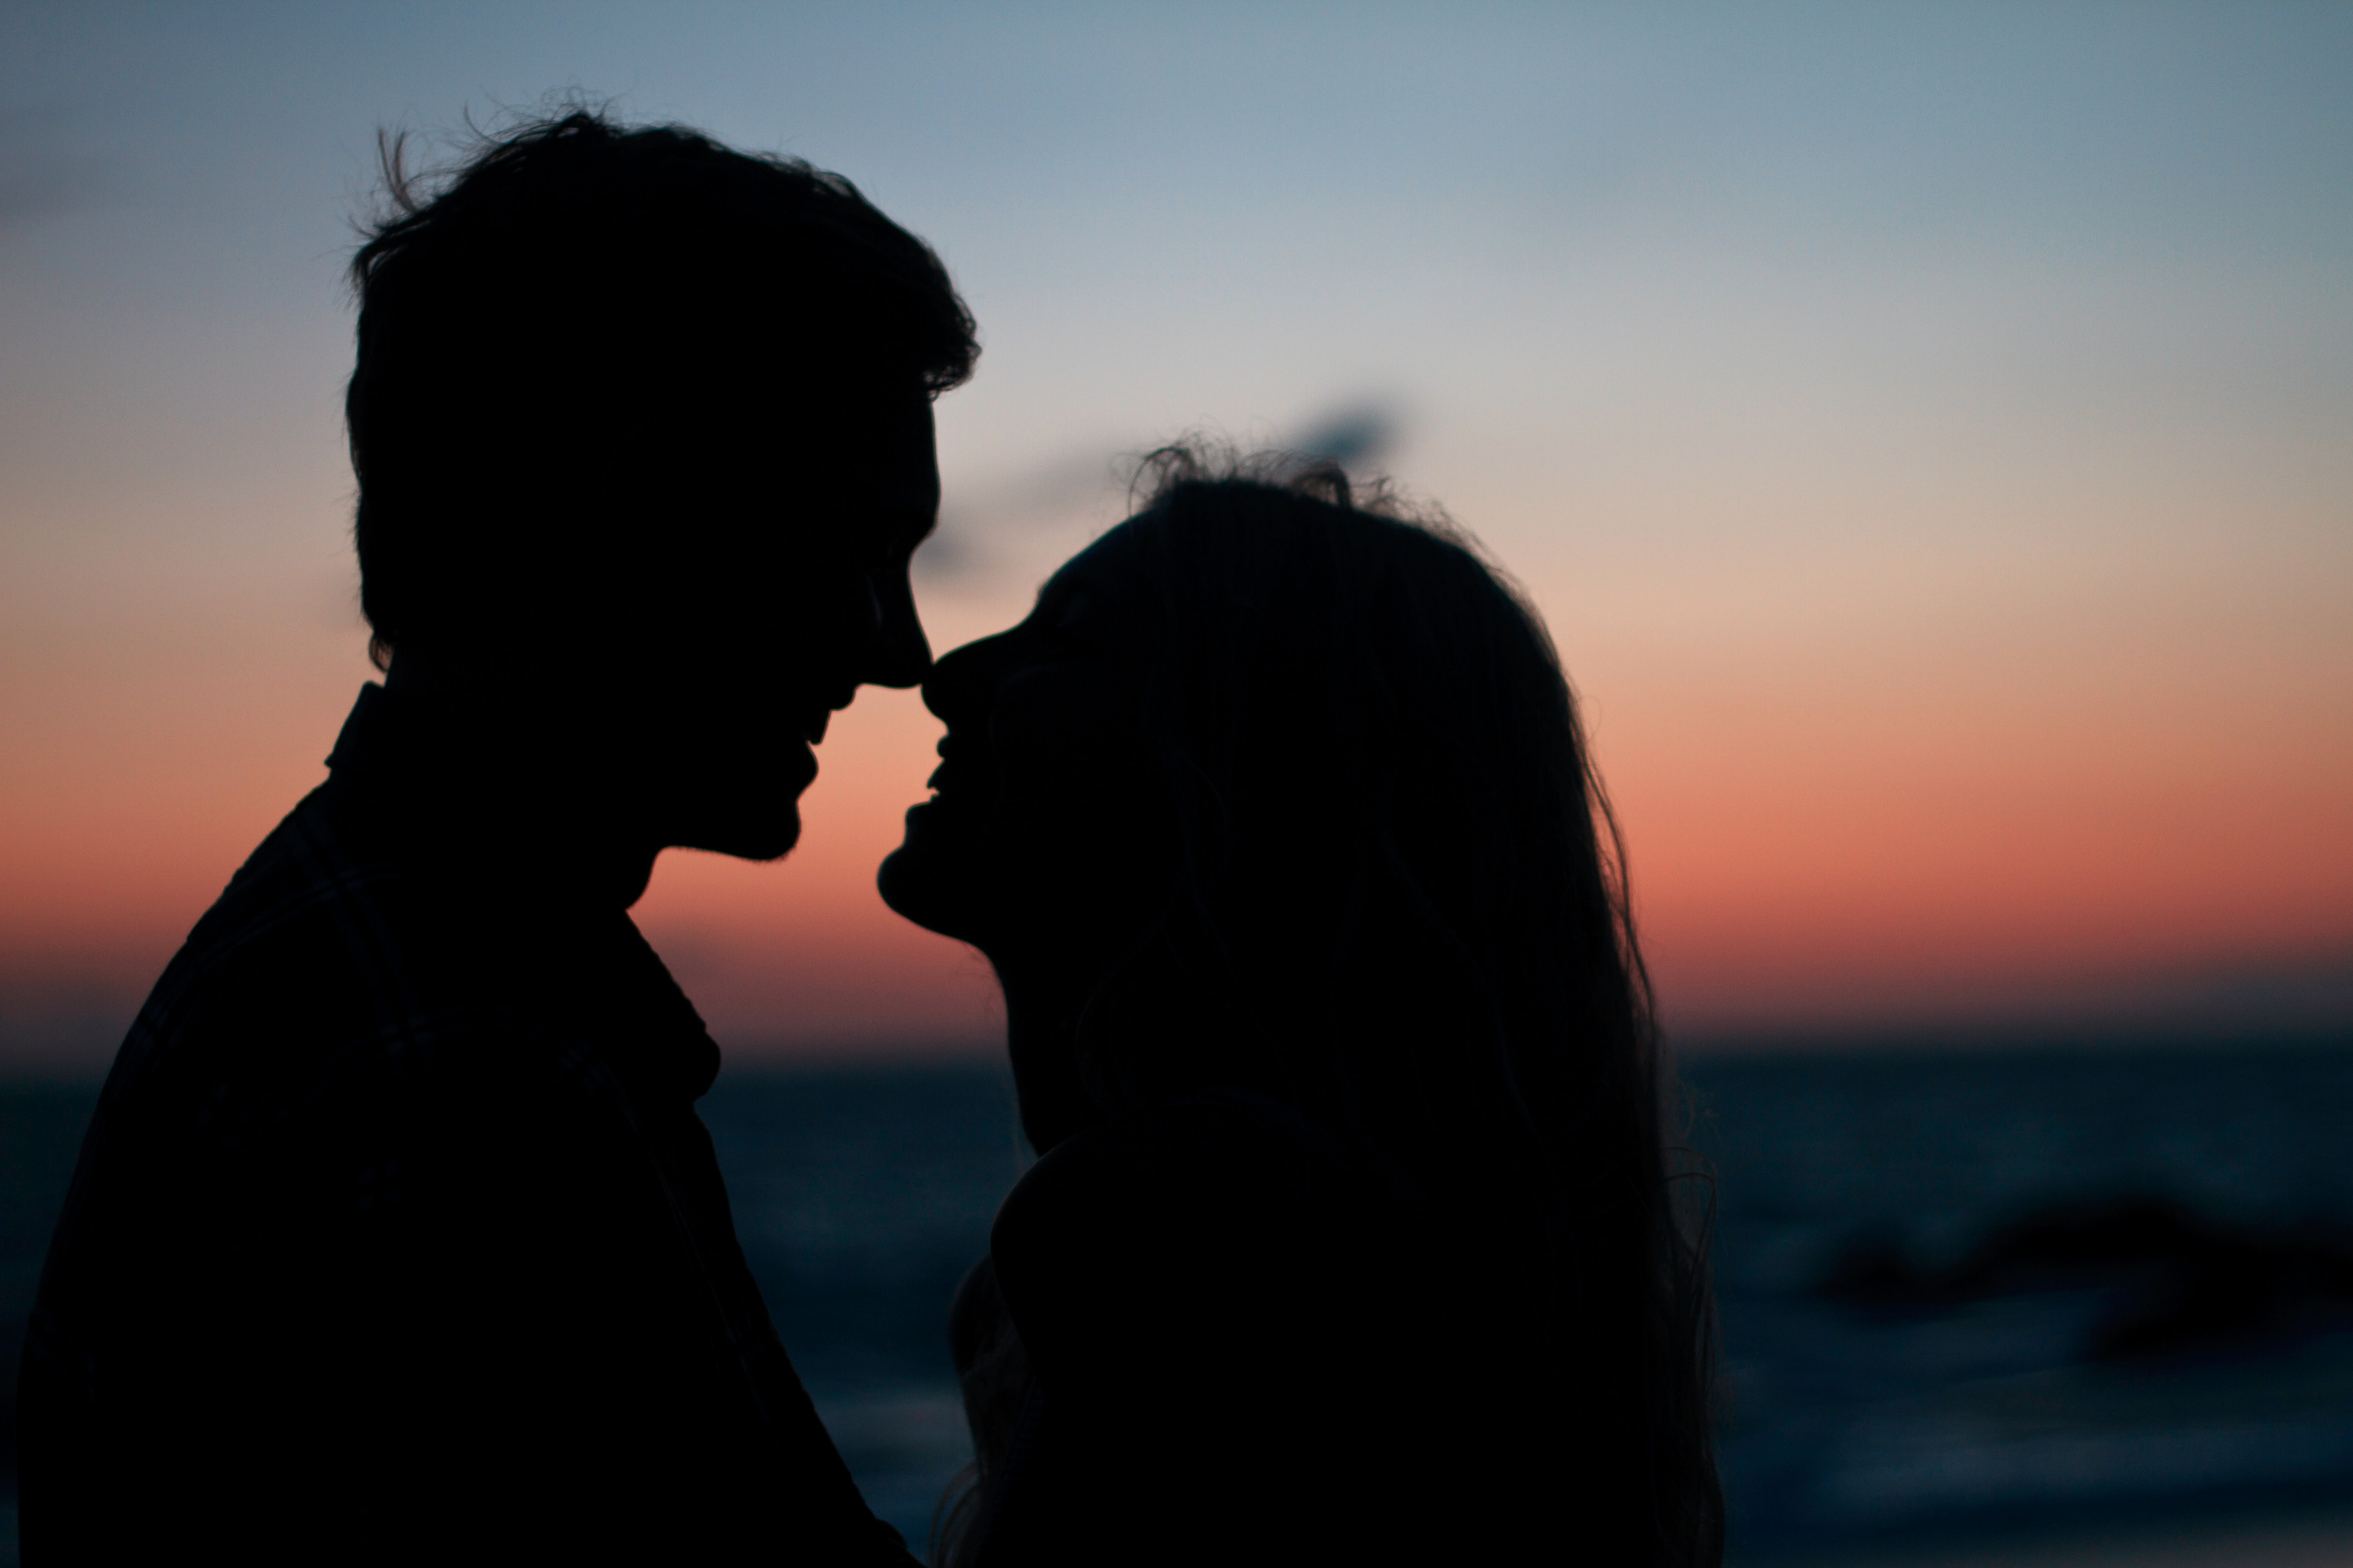
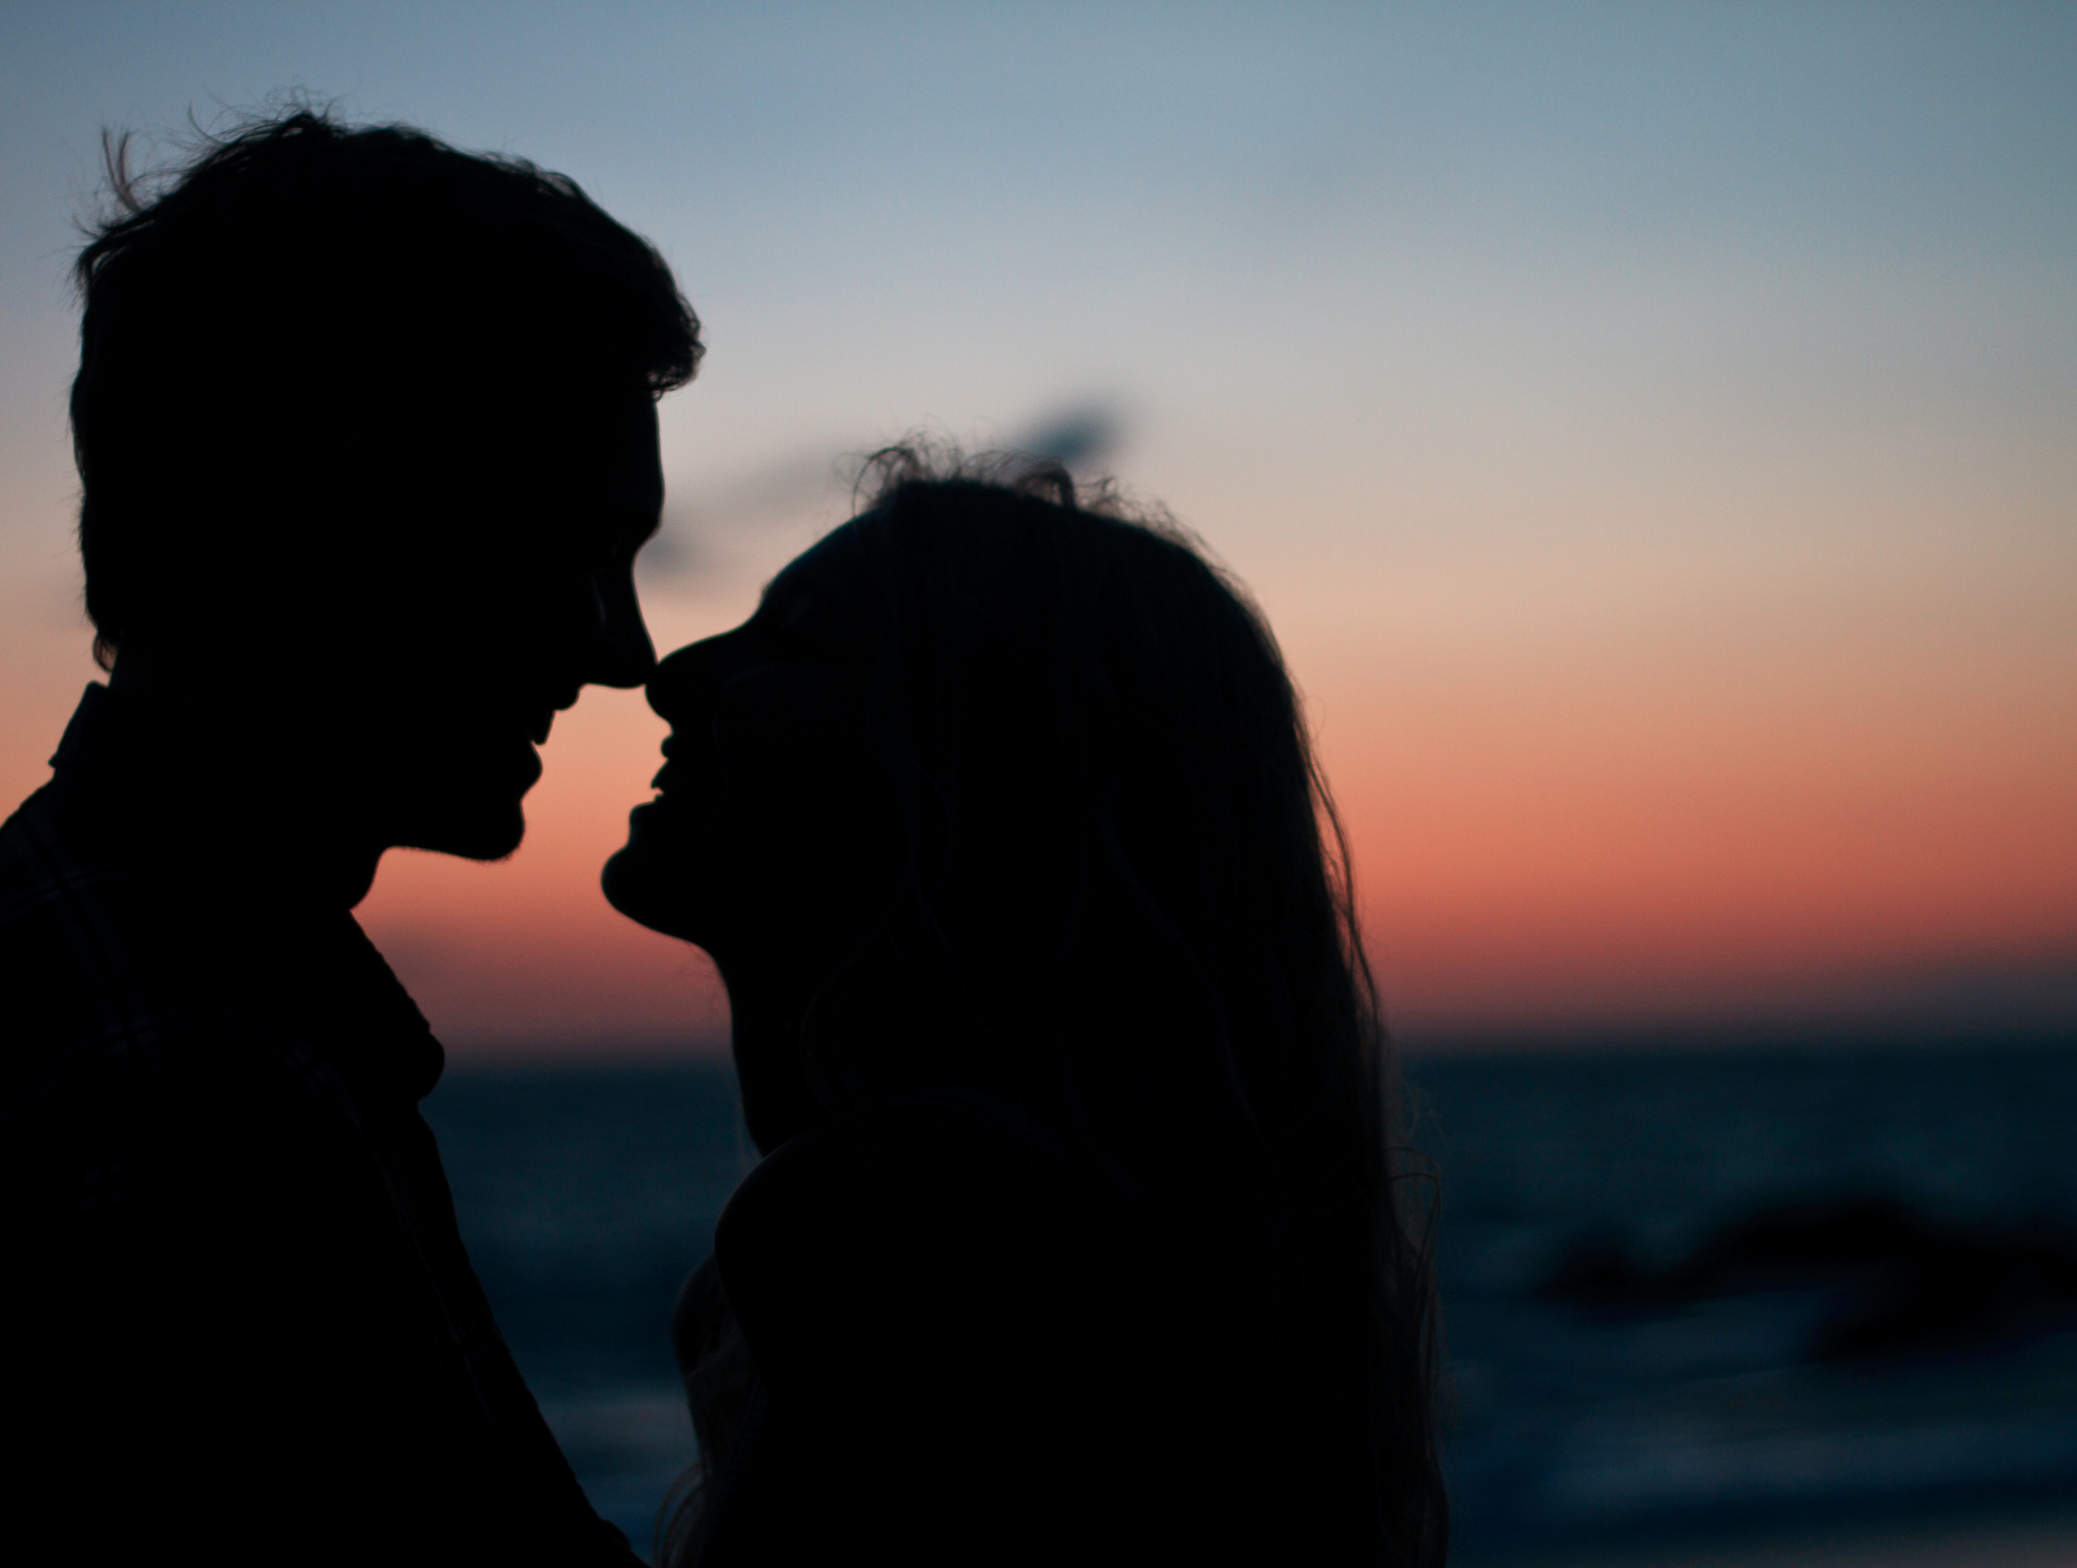
frontend <> login: finished hero background

Changed region(s): [[0.0, 0.0625, 0.75, 1.0], [0.75, 0.7812, 0.7812, 0.8438], [0.0, 0.9688, 0.0312, 1.0]]

diff --git a/frontend/index.html b/frontend/index.html
@@ -3,9 +3,12 @@
     <meta charset="UTF-8">
     <meta http-equiv="X-UA-Compatible" content="IE=edge">
     <meta name="viewport" content="width=device-width, initial-scale=1.0">
+    <link rel="stylesheet" href="assets/styles/styles.css">
     <title>Document</title>
 </head>
 <body>
-    
+    <section class="hero">
+
+    </section>
 </body>
 </html>

diff --git a/frontend/assets/styles/styles.css b/frontend/assets/styles/styles.css
@@ -1,0 +1,15 @@
+/* CSS Reset */
+*{
+    padding: 0;
+    margin: 0;
+    box-sizing: border-box;
+}
+
+.hero{
+    height: 100vh;
+    width: 100%;
+    background-image: url('../images/hero_login.jpg');
+    background-repeat: no-repeat;
+    background-size: 100% 100%;
+    min-height: 600px;
+}
